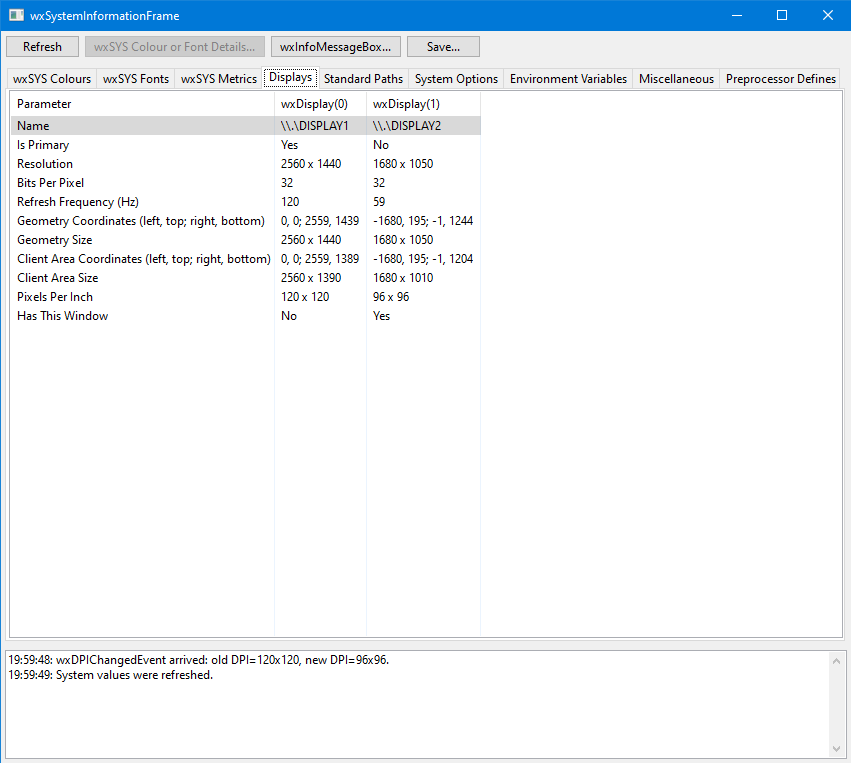
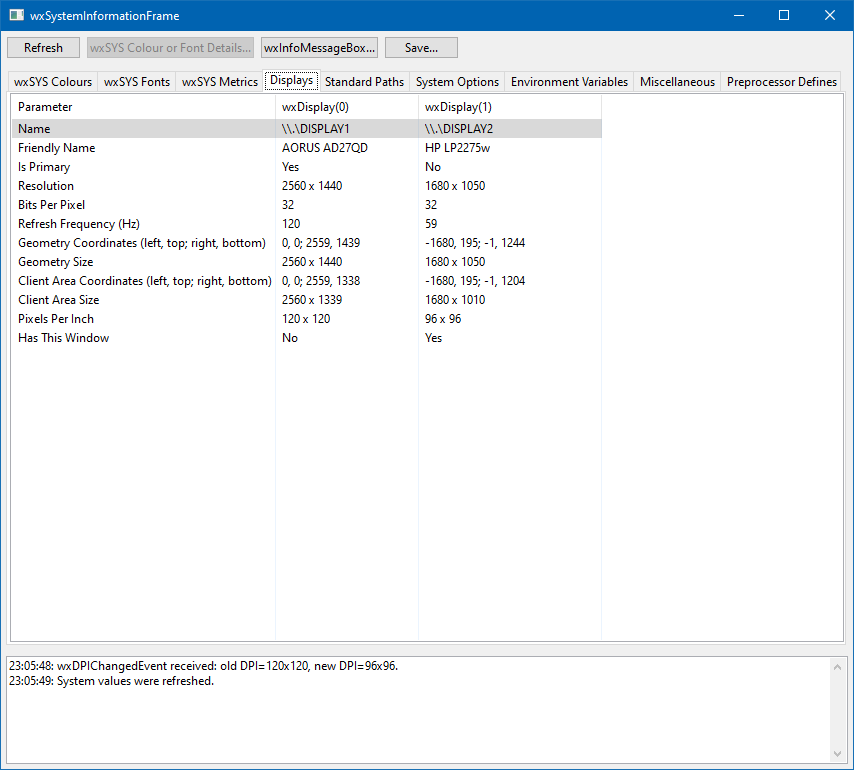
Show user friendly display names on MSW

Changed region(s): [[0.0, 0.0, 1.0, 1.0]]

diff --git a/code/wxsysinfoframe.cpp b/code/wxsysinfoframe.cpp
@@ -27,6 +27,10 @@
 #include <wx/wupdlock.h>
 
 #ifdef __WXMSW__
+    #include <cwchar>
+
+    #include <wx/msw/private.h>
+
     #include <uxtheme.h>
     #include <winuser.h>
 #endif
@@ -591,6 +595,69 @@ void SystemMetricView::DoUpdateValues()
 
 *************************************************/
 
+#ifdef __WXMSW__
+
+// The code for obtaining friendly monitor names is adapted from
+// https://gist.github.com/pavel-a/dd3a4320176e69a0f6c4b4871e69e56b
+
+BOOL CALLBACK MonitorInfoEnumProc(HMONITOR hMonitor, HDC, LPRECT, LPARAM dwData)
+{
+    WinStruct<MONITORINFOEXW> info;
+    UINT32 pathCount, modeCount;
+    std::vector<DISPLAYCONFIG_PATH_INFO> paths;
+    std::vector<DISPLAYCONFIG_MODE_INFO> modes;
+
+    if ( !::GetMonitorInfoW(hMonitor, &info) )
+        return FALSE;
+
+    if ( ::GetDisplayConfigBufferSizes(QDC_ONLY_ACTIVE_PATHS, &pathCount, &modeCount) != ERROR_SUCCESS )
+        return FALSE;
+
+    if ( !pathCount || !modeCount )
+        return FALSE;
+
+    paths.resize(pathCount);
+    modes.resize(modeCount);
+
+    if ( ::QueryDisplayConfig(QDC_ONLY_ACTIVE_PATHS,
+            &pathCount, paths.data(), &modeCount, modes.data(), nullptr) != ERROR_SUCCESS )
+        return FALSE;
+
+    for ( const auto& p : paths )
+    {
+        DISPLAYCONFIG_SOURCE_DEVICE_NAME sourceName;
+
+        sourceName.header.type = DISPLAYCONFIG_DEVICE_INFO_GET_SOURCE_NAME;
+        sourceName.header.size = sizeof(sourceName);
+        sourceName.header.adapterId = p.sourceInfo.adapterId;
+        sourceName.header.id = p.sourceInfo.id;
+        if ( ::DisplayConfigGetDeviceInfo(&sourceName.header) != ERROR_SUCCESS )
+            return FALSE;
+
+        if ( ::wcscmp(info.szDevice, sourceName.viewGdiDeviceName) != 0 )
+            continue;
+
+        DISPLAYCONFIG_TARGET_DEVICE_NAME name;
+
+        name.header.type = DISPLAYCONFIG_DEVICE_INFO_GET_TARGET_NAME;
+        name.header.size = sizeof(name);
+        name.header.adapterId = p.sourceInfo.adapterId;
+        name.header.id = p.targetInfo.id;
+        if ( ::DisplayConfigGetDeviceInfo(&name.header) != ERROR_SUCCESS )
+            return FALSE;
+
+        wxArrayString* friendlyNames = reinterpret_cast<wxArrayString*>(dwData);
+
+        friendlyNames->push_back(wxString(name.monitorFriendlyDeviceName));
+        return TRUE;
+    }
+
+    return FALSE;
+}
+
+#endif // #ifdef __WXMSW__
+
+
 class DisplaysView : public SysInfoListView
 {
 public:
@@ -604,6 +671,7 @@ private:
     enum
     {
         Param_Name = 0,
+        Param_FriendlyName,
         Param_IsPrimary,
         Param_Resolution,
         Param_BPP,
@@ -623,6 +691,9 @@ DisplaysView::DisplaysView(wxWindow* parent)
     AppendColumn(_("Parameter"));
 
     AppendItemWithData(_("Name"), Param_Name);
+#ifdef __WXMSW__
+    AppendItemWithData(_("Friendly Name"), Param_FriendlyName);
+#endif
     AppendItemWithData(_("Is Primary"), Param_IsPrimary);
     AppendItemWithData(_("Resolution"), Param_Resolution);
     AppendItemWithData(_("Bits Per Pixel"), Param_BPP);
@@ -689,6 +760,13 @@ void DisplaysView::DoUpdateValues()
     const int displayForThisWindow = wxDisplay::GetFromWindow(wxGetTopLevelParent(this));
     const int itemCount = GetItemCount();
 
+#ifdef __WXMSW__
+    wxArrayString friendlyNames;
+
+    if ( !::EnumDisplayMonitors(nullptr, nullptr, MonitorInfoEnumProc, (LPARAM)&friendlyNames) )
+        friendlyNames.clear();
+#endif // #ifdef __WXMSW__
+
     for ( size_t displayIndex = 0; displayIndex < displayCount; ++displayIndex )
     {
         const wxDisplay display(displayIndex);
@@ -710,6 +788,14 @@ void DisplaysView::DoUpdateValues()
                 case Param_Name:
                     value = display.GetName();
                     break;
+#ifdef __WXMSW__
+                case Param_FriendlyName:
+                    if ( friendlyNames.size() == displayCount )
+                        value = friendlyNames[displayIndex];
+                    else
+                        value = _("N/A");
+                    break;
+#endif // #ifdef __WXMSW__
                 case Param_IsPrimary:
                     value =  display.IsPrimary() ? _("Yes") : _("No");
                     break;

diff --git a/code/wxsysinfoframe.h b/code/wxsysinfoframe.h
@@ -10,8 +10,8 @@
 
 
 #define WX_SYSTEM_INFORMATION_FRAME_MAJOR_VERSION  2
-#define WX_SYSTEM_INFORMATION_FRAME_MINOR_VERSION  2
-#define WX_SYSTEM_INFORMATION_FRAME_VERSION_STRING "2.2"
+#define WX_SYSTEM_INFORMATION_FRAME_MINOR_VERSION  3
+#define WX_SYSTEM_INFORMATION_FRAME_VERSION_STRING "2.3"
 
 #include <wx/wx.h>
 
